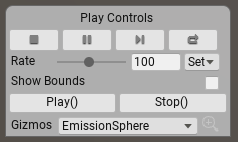
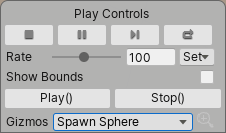
Added Disclaimer / Play Controls

diff --git a/com.unity.visualeffectgraph/Documentation~/PropertyBinders.md b/com.unity.visualeffectgraph/Documentation~/PropertyBinders.md
@@ -1,6 +1,23 @@
+<div style="border: solid 1px #999; border-radius:12px; background-color:#EEE; padding: 8px; padding-left:14px; color: #555; font-size:14px;"><b>Draft:</b> This page has its content written, but its formatting has not been reviewed at the moment.</div>
 # Property Binders
 
 Property Binders are C# Behaviors you can attach to a GameObject with a [Visual Effect Component](VisualEffectComponent.md) : these behaviors enable making connections between scene or gameplay values and [Exposed Properties](Blackboard.md#exposed-properties-in-inspector) for this Visual Effect instance.
 
 > For instance : a Sphere Binder can automatically set the position and the radius of a Sphere Exposed Property with the values of a sphere collider that is linked in the scene.
+
+## Adding Property Binders
+
+![](Images/PropertyBinder.png)
+
+You can add Property Binders through a common MonoBehaviour called **VFX Property Binder**. This behavior enables the use of one or many **Property Bindings**. Each property binding is in charge of creating a relationship between an [Exposed Property](Blackboard.md#exposed-properties-in-inspector) and a runtime or scene element. 
+
+## Built-in Property Binders
+
+Visual Effect Graph package comes with the following built-in property binders:
+
+
+
+## Writing Property Binders
+
+You can write property binders by adding new C# classes to your project.
 

diff --git a/com.unity.visualeffectgraph/Documentation~/VisualEffectComponent.md b/com.unity.visualeffectgraph/Documentation~/VisualEffectComponent.md
@@ -1,3 +1,4 @@
+<div style="border: solid 1px #999; border-radius:12px; background-color:#EEE; padding: 8px; padding-left:14px; color: #555; font-size:14px;"><b>Draft:</b> The content on this page is complete, but it has not been reviewed yet.</div>
 # Visual Effect (Component)
 
 The Visual Effect Component creates an instance of a Visual Effect in the scene, based on a Visual Effect Graph Asset. It controls how the effect plays, renders and let the user customize the instance by editing [Exposed Properties](PropertiesAndBlackboard.md#Exposed Properties)
@@ -47,6 +48,12 @@ The properties category display any Property that have been defined in the Visua
 In order to access property values you can edit them using the inspector, use the [C# API](https://docs.unity3d.com/2019.3/Documentation/ScriptReference/VFX.VisualEffect.html) or use Property Binders.
 
 ## The Play Controls Window
+
+The Play Controls window displays UI Elements that enable control over the currently selected instance of a Visual Effect. It is displayed when a Visual Effect Game Object is selected.
+
+![](Images/PlayControls.png)
+
+The play Controls Window 
 
 ## Editing Properties with Gizmos
 

diff --git a/com.unity.visualeffectgraph/Documentation~/Reference/Attributes.md b/com.unity.visualeffectgraph/Documentation~/Reference/Attributes.md
@@ -1,6 +1,6 @@
+<div style="border: solid 1px #999; border-radius:12px; background-color:#EEE; padding: 8px; padding-left:14px; color: #555; font-size:14px;"><b>Draft:</b> This page has its content written, but its formatting has not been reviewed at the moment.</div>
+
 # Standard Attribute Reference
-
-
 
 ## Standard Attributes
 
@@ -91,7 +91,7 @@ Angular Velocity integration basically used the following formula: `angle += ang
 
 #### AxisX, AxisY and AxisZ
 
-These three attributes define the **unit representation** 3d coordinate system. While these axis are expected to be normalized, you can use non-normalized lengths and non-orthogonal angles between all three axise.
+These three attributes define the **unit representation** 3d coordinate system. While these axis are expected to be normalized, you can use non-normalized lengths and non-orthogonal angles between all three axis.
 
 > Most of the time, these axis are set using the Orient Block (Output Context Only).
 

diff --git a/com.unity.visualeffectgraph/Documentation~/VisualEffectProjectSettings.md b/com.unity.visualeffectgraph/Documentation~/VisualEffectProjectSettings.md
@@ -1,12 +1,11 @@
+<div style="border: solid 1px #999; border-radius:12px; background-color:#EEE; padding: 8px; padding-left:14px; color: #555; font-size:14px;"><b>Draft:</b> The content on this page is complete, but it has not been reviewed yet.</div>
 # Visual Effect Project Settings
 
 Visual Effect Graph Project Settings is a Section in Unity Project Settings Window. You can access these settings using the **Edit/Project Settings** menu, then selecting **VFX** section.
 
 ![](Images/VisualEffectProjectSettings.png)
 
-Visual Effects Preferences expose the following Settings:
-
-
+## Properties:
 
 | Name                               | Description                                                  |
 | ---------------------------------- | ------------------------------------------------------------ |

diff --git a/com.unity.visualeffectgraph/Documentation~/VisualEffectPreferences.md b/com.unity.visualeffectgraph/Documentation~/VisualEffectPreferences.md
@@ -1,12 +1,11 @@
+<div style="border: solid 1px #999; border-radius:12px; background-color:#EEE; padding: 8px; padding-left:14px; color: #555; font-size:14px;"><b>Draft:</b> The content on this page is complete, but it has not been reviewed yet.</div>
 # Visual Effect Graph Preferences
 
 Visual Effect Graph Preferences is a Section in Unity Preferences Window. You can access these settings using the **Edit/Preferences** menu, then selecting **Visual Effects** section.
 
 ![](Images/VisualEffectPreferences.png)
 
-Visual Effects Preferences expose the following Settings:
-
-
+## Properties:
 
 | Name                                | Description                                                  |
 | ----------------------------------- | ------------------------------------------------------------ |

diff --git a/com.unity.visualeffectgraph/Documentation~/Operators.md b/com.unity.visualeffectgraph/Documentation~/Operators.md
@@ -1,5 +1,4 @@
-
-
+<div style="border: solid 1px #999; border-radius:12px; background-color:#EEE; padding: 8px; padding-left:14px; color: #555; font-size:14px;"><b>Draft:</b> This page has its content written, but its formatting has not been reviewed at the moment.</div>
 # Operators
 
 Operators are the atomic elements of the [Property Workflow](GraphLogicAndPhilosophy.md#property-workflow-horizontal-logic) : these nodes enable defining custom expressions in Visual Effect Graphs in order to create custom behaviors in the graph, for instance compute values from math operations and use the result of these operations to sample curves, gradients, to use the resulting values into [Block](Blocks.md) or [Context](Contexts.md) input [Properties](Properties.md).

diff --git a/com.unity.visualeffectgraph/Documentation~/ExposedPropertyHelper.md b/com.unity.visualeffectgraph/Documentation~/ExposedPropertyHelper.md
@@ -1,3 +1,5 @@
+<div style="border: solid 1px #999; border-radius:12px; background-color:#EEE; padding: 8px; padding-left:14px; color: #555; font-size:14px;"><b>Draft:</b> This page has its content written, but its formatting has not been reviewed at the moment.</div>
+
 # Exposed Property Class
 
 `ExposedProperty` class is a helper class that caches a property ID based on its name. You can assign a string name to the class, and It will automatically cache the integer value from `Shader.PropertyToID(string name)`and cast implicitly to this integer when used in Property, Event or EventAttr methods of the [Component API](ComponentAPI.md) 

diff --git a/com.unity.visualeffectgraph/Documentation~/GettingStarted.md b/com.unity.visualeffectgraph/Documentation~/GettingStarted.md
@@ -1,4 +1,5 @@
 # Getting started with Visual Effect Graph
+
 This page shows you how  to install Visual Effect Graph, and gives a brief overview of how to [create](Creating-Visual-Effect-Graphs), [edit](#Editing-a-Visual-Effect-Graph), and [preview](#Previewing-the-Graph’s-effects) effects with Visual Effect Graph. For an overview of how the graph works, see [Graph-Logic.md].
 Visual Effect Graph is a Unity package that uses a [Scriptable Render Pipeline](https://docs.unity3d.com/Manual/ScriptableRenderPipeline.html) to render visual effects. Visual Effect graph uses on compute Shaders to simulate effects.
 ## Requirements

diff --git a/com.unity.visualeffectgraph/Documentation~/ComponentAPI.md b/com.unity.visualeffectgraph/Documentation~/ComponentAPI.md
@@ -1,3 +1,5 @@
+<div style="border: solid 1px #999; border-radius:12px; background-color:#EEE; padding: 8px; padding-left:14px; color: #555; font-size:14px;"><b>Draft:</b> This page has its content written, but its formatting has not been reviewed at the moment.</div>
+
 # Visual Effect Component API
 
  [Visual Effect Graphs](VisualEffectGraphAsset.md) are instantiated into scenes using the [Visual Effect Component](VisualEffectComponent.md) . This allows to use different instances of effects that you can control independently,  make variations using Property overrides, and control the effect through a C# API. 

diff --git a/com.unity.visualeffectgraph/Documentation~/Contexts.md b/com.unity.visualeffectgraph/Documentation~/Contexts.md
@@ -1,3 +1,5 @@
+<div style="border: solid 1px #999; border-radius:12px; background-color:#EEE; padding: 8px; padding-left:14px; color: #555; font-size:14px;"><b>Draft:</b> This page has its content written, but its formatting has not been reviewed at the moment.</div>
+
 # Contexts
 
 Contexts are the main elements of the Graph Workflow logic (vertical) and define the succession and the relationships of operations and simulations. Every context defines one stage of computing, for example computing how many particles need to be spawned, creating new particles or updating all living particles. 

diff --git a/com.unity.visualeffectgraph/Documentation~/EventBinders.md b/com.unity.visualeffectgraph/Documentation~/EventBinders.md
@@ -1,3 +1,5 @@
+<div style="border: solid 1px #999; border-radius:12px; background-color:#EEE; padding: 8px; padding-left:14px; color: #555; font-size:14px;"><b>Draft:</b> This page has its content written, but its formatting has not been reviewed at the moment.</div>
+
 # Event Binders
 
 Event Binders is a set of **MonoBehaviour** Scripts that help sending [Events](Events.md) to [Visual Effects](VisualEffectComponent.md) when a particular event happens in the scene. Event binders can also attach [Event Attribute Payloads](Events.md#eventattribute-payloads) to the events that are sent.

diff --git a/com.unity.visualeffectgraph/Documentation~/VisualEffectGraphWindow.md b/com.unity.visualeffectgraph/Documentation~/VisualEffectGraphWindow.md
@@ -1,3 +1,4 @@
+<div style="border: solid 1px #999; border-radius:12px; background-color:#EEE; padding: 8px; padding-left:14px; color: #555; font-size:14px;"><b>Draft:</b> The content on this page is complete, but it has not been reviewed yet.</div>
 # The Visual Effect Graph Window
 
 The Visual Effect Graph Window is the main window of Visual Effect Graph, where users edit Visual Effect Graph assets, and subgraphs.  The window displays the workspace of systems, contexts and operators contained in a  [Visual Effect Graph Asset](VisualEffectGraphAsset.md). 
